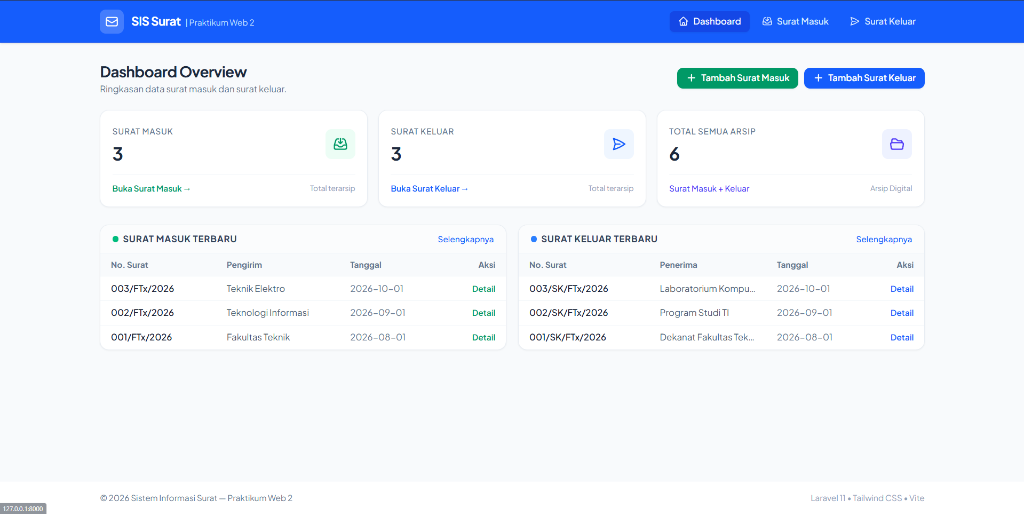
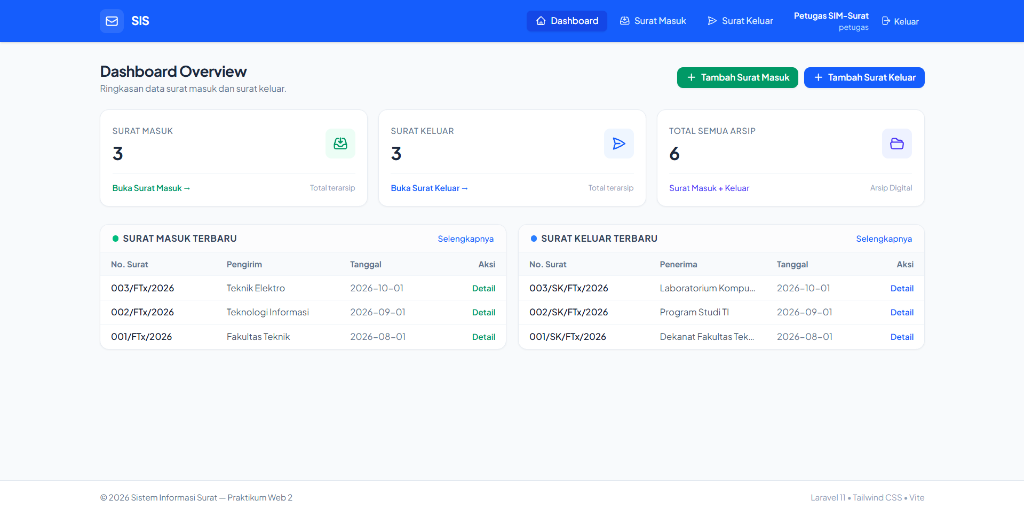
feat: perbarui tangkapan layar antarmuka sebelum & sesudah login, perbarui UI, dan dokumentasi version control

diff --git a/resources/views/layouts/app.blade.php b/resources/views/layouts/app.blade.php
@@ -29,8 +29,7 @@
                         </svg>
                     </div>
                     <div>
-                        <span class="text-sm sm:text-base font-bold text-white tracking-tight">SIS Surat</span>
-                        <span class="hidden sm:inline-block text-[11px] text-blue-200 ml-1 font-normal">| Praktikum Web 2</span>
+                        <span class="text-sm sm:text-base font-bold text-white tracking-tight">SIS</span>
                     </div>
                 </a>
 

diff --git a/resources/views/auth/login.blade.php b/resources/views/auth/login.blade.php
@@ -62,7 +62,7 @@
             </form>
         </div>
 
-        <p class="text-center text-[11px] text-slate-400 mt-4">&copy; {{ date('Y') }} Sistem Informasi Surat — Praktikum Web 2</p>
+        <p class="text-center text-[11px] text-slate-400 mt-4">&copy; {{ date('Y') }} Sistem Informasi Surat</p>
     </div>
 </body>
 </html>

diff --git a/README.md b/README.md
@@ -2,31 +2,71 @@
 
 Aplikasi web sederhana untuk pencatatan dan pengelolaan arsip surat masuk dan surat keluar, dibangun menggunakan Laravel 12 dan Tailwind CSS.
 
-Proyek ini dibuat untuk membantu pengelolaan persuratan agar pencatatan nomor surat, tanggal, pengirim, penerima, serta perihal dapat terdata dengan rapi dalam satu sistem.
+Proyek ini dibuat untuk membantu pengelolaan persuratan agar pencatatan nomor surat, tanggal, pengirim, penerima, serta perihal dapat terdata dengan rapi dalam satu sistem dengan dukungan autentikasi dan hak akses berbasis peran (*role-based access control*).
+
+## Version Control (Riwayat Versi)
+
+Repositori ini dikelola menggunakan Version Control System (Git) dengan penanda versi (*tags* dan *branches*) untuk memisahkan tahapan pengembangan sistem:
+
+| Versi / Tag | Branch | Status | Deskripsi |
+| :--- | :--- | :--- | :--- |
+| **`v1.0.0-sebelum-login`** | `sebelum-login` | **Sebelum Login** | Versi awal sistem informasi surat sebelum implementasi autentikasi (semua fitur arsip dan CRUD dapat diakses publik tanpa login). |
+| **`v2.0.0-sesudah-login`** | `main` / `sesudah-login` | **Sesudah Login** | Versi lengkap dengan fitur Autentikasi (Login/Logout), Otorisasi Role (`petugas` & `pembaca`), proteksi middleware, serta UI modern. |
+
+Untuk beralih antar versi menggunakan Git:
+
+```bash
+# Beralih ke versi sebelum login
+git checkout v1.0.0-sebelum-login
+# atau
+git checkout sebelum-login
+
+# Beralih ke versi sesudah login (terbaru)
+git checkout main
+```
+
+---
 
 ## Tampilan Antarmuka
 
-### Dashboard Overview
+### 1. Sebelum Login (Halaman Login)
+Tampilan gerbang masuk sistem saat pengguna belum diautentikasi.
 <p align="center">
-  <img src="assets/screenshots/dashboard.png" width="100%" alt="Dashboard Overview" />
+  <img src="assets/screenshots/login.png" width="100%" alt="Halaman Login (Sebelum Login)" />
 </p>
 
-### Daftar Surat Masuk
+### 2. Sesudah Login (Dashboard Overview)
+Tampilan dashboard setelah pengguna berhasil masuk, menampilkan ringkasan data, menu navigasi, serta informasi akun dan hak akses pengguna.
+<p align="center">
+  <img src="assets/screenshots/dashboard.png" width="100%" alt="Dashboard Overview (Sesudah Login)" />
+</p>
+
+### 3. Daftar Surat Masuk
+Tampilan manajemen arsip surat masuk.
 <p align="center">
   <img src="assets/screenshots/surat-masuk.png" width="100%" alt="Daftar Surat Masuk" />
 </p>
 
-### Daftar Surat Keluar
+### 4. Daftar Surat Keluar
+Tampilan manajemen arsip surat keluar.
 <p align="center">
   <img src="assets/screenshots/surat-keluar.png" width="100%" alt="Daftar Surat Keluar" />
 </p>
 
-## Fitur
+---
 
-- Dashboard ringkasan persuratan dan statistik jumlah arsip
-- Manajemen data surat masuk (nomor surat, tanggal, pengirim, perihal, dan keterangan)
-- Manajemen data surat keluar (nomor surat, tanggal, penerima, perihal, dan keterangan)
-- Tampilan detail rincian untuk setiap surat
+## Fitur Utama
+
+- **Autentikasi Pengguna**: Login dan Logout aman dengan proteksi session dan CSRF token.
+- **Otorisasi Berbasis Peran (*Role-Based Access Control*)**:
+  - **Petugas**: Memiliki akses penuh untuk melihat, menambah, mengubah, dan menghapus (*CRUD*) arsip surat masuk dan keluar.
+  - **Pembaca**: Memiliki akses hanya-baca (*read-only*) untuk melihat daftar dan rincian surat.
+- **Dashboard Ringkasan**: Statistik jumlah surat masuk, surat keluar, total arsip digital, dan 5 arsip terbaru.
+- **Manajemen Data Surat Masuk**: Nomor surat, tanggal, pengirim, perihal, dan keterangan lampiran.
+- **Manajemen Data Surat Keluar**: Nomor surat, tanggal, penerima, perihal, dan keterangan lampiran.
+- **Tampilan Detail Rincian**: Halaman khusus untuk melihat informasi lengkap setiap surat.
+
+---
 
 ## Kebutuhan Sistem
 
@@ -34,6 +74,8 @@ Proyek ini dibuat untuk membantu pengelolaan persuratan agar pencatatan nomor su
 - Composer
 - Database (MySQL / MariaDB / SQLite)
 - Node.js dan npm
+
+---
 
 ## Cara Menjalankan
 
@@ -48,7 +90,7 @@ Proyek ini dibuat untuk membantu pengelolaan persuratan agar pencatatan nomor su
    cp .env.example .env
    ```
 
-3. Install dependensi:
+3. Install dependensi PHP dan frontend:
    ```bash
    composer install
    npm install
@@ -59,27 +101,38 @@ Proyek ini dibuat untuk membantu pengelolaan persuratan agar pencatatan nomor su
    php artisan key:generate
    ```
 
-5. Sesuaikan konfigurasi database pada file `.env` (DB_DATABASE, DB_USERNAME, DB_PASSWORD).
+5. Sesuaikan konfigurasi database pada file `.env` (`DB_DATABASE`, `DB_USERNAME`, `DB_PASSWORD`).
 
-6. Jalankan migrasi database:
+6. Jalankan migrasi dan seeder database:
    ```bash
-   php artisan migrate
+   php artisan migrate --seed
    ```
 
-7. Jalankan server aplikasi:
+7. Build aset atau jalankan vite:
+   ```bash
+   npm run build
+   # atau untuk mode development:
+   npm run dev
+   ```
+
+8. Jalankan server aplikasi Laravel:
    ```bash
    php artisan serve
    ```
 
 Aplikasi dapat diakses melalui browser di `http://127.0.0.1:8000`.
 
+---
+
 ## Struktur Proyek
 
-- `app/Http/Controllers/` : Controller untuk logika surat masuk dan surat keluar
-- `app/Models/` : Model Eloquent (IncomingLetter, OutgoingLetter)
-- `database/migrations/` : Skema tabel database surat masuk dan surat keluar
-- `resources/views/` : Template antarmuka Blade
-- `routes/web.php` : Definisi rute web aplikasi
+- `app/Http/Controllers/` : Controller logika surat masuk, surat keluar, dan autentikasi login
+- `app/Models/` : Model Eloquent (IncomingLetter, OutgoingLetter, User)
+- `database/migrations/` : Skema tabel database surat masuk, surat keluar, user, dan sessions
+- `resources/views/` : Template antarmuka Blade (auth, layouts, surat-masuk, surat-keluar)
+- `routes/web.php` : Rute web aplikasi dengan proteksi middleware `guest` dan `auth`
+
+---
 
 ## Lisensi
 
